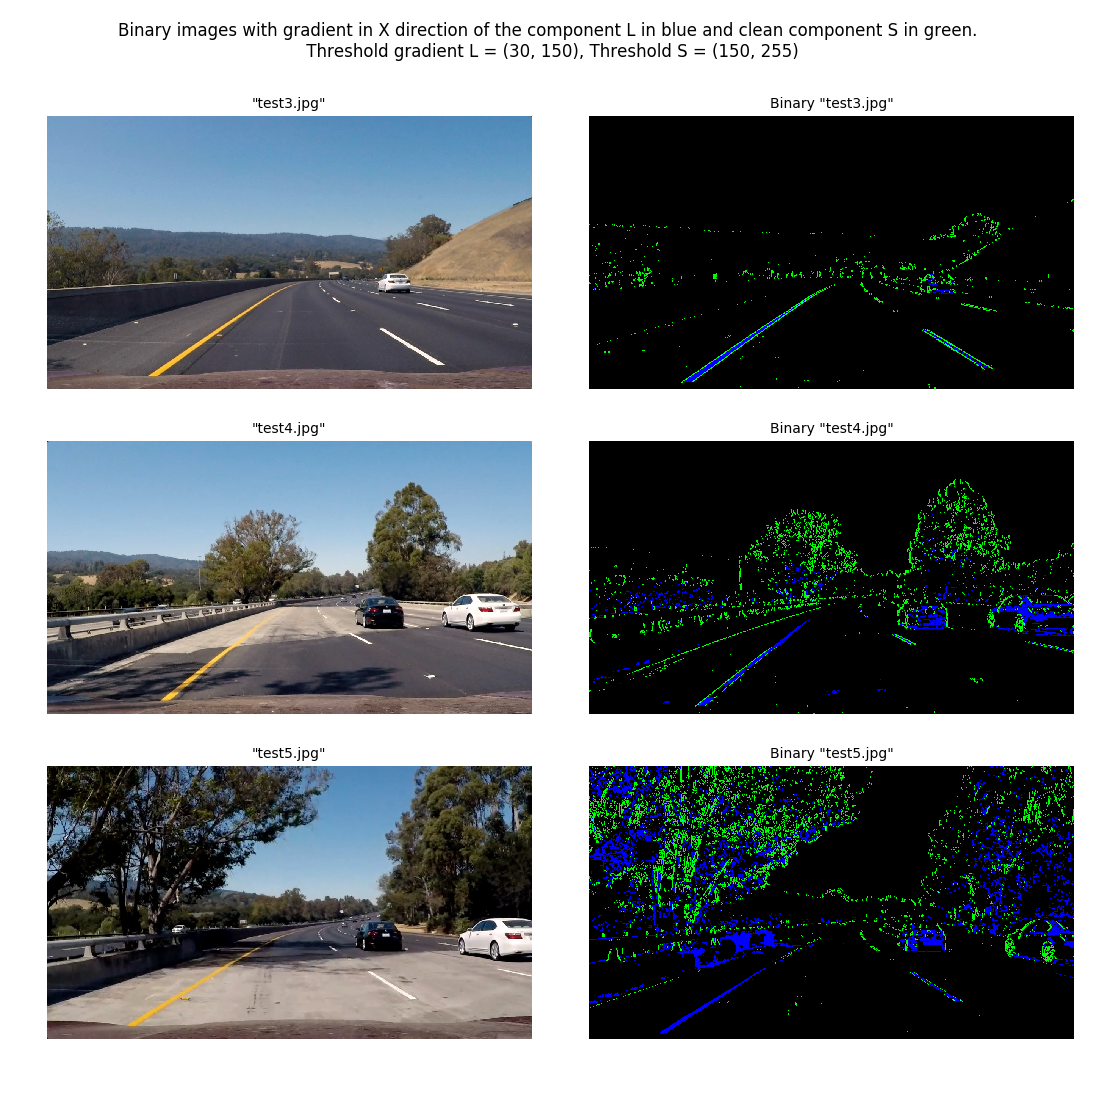
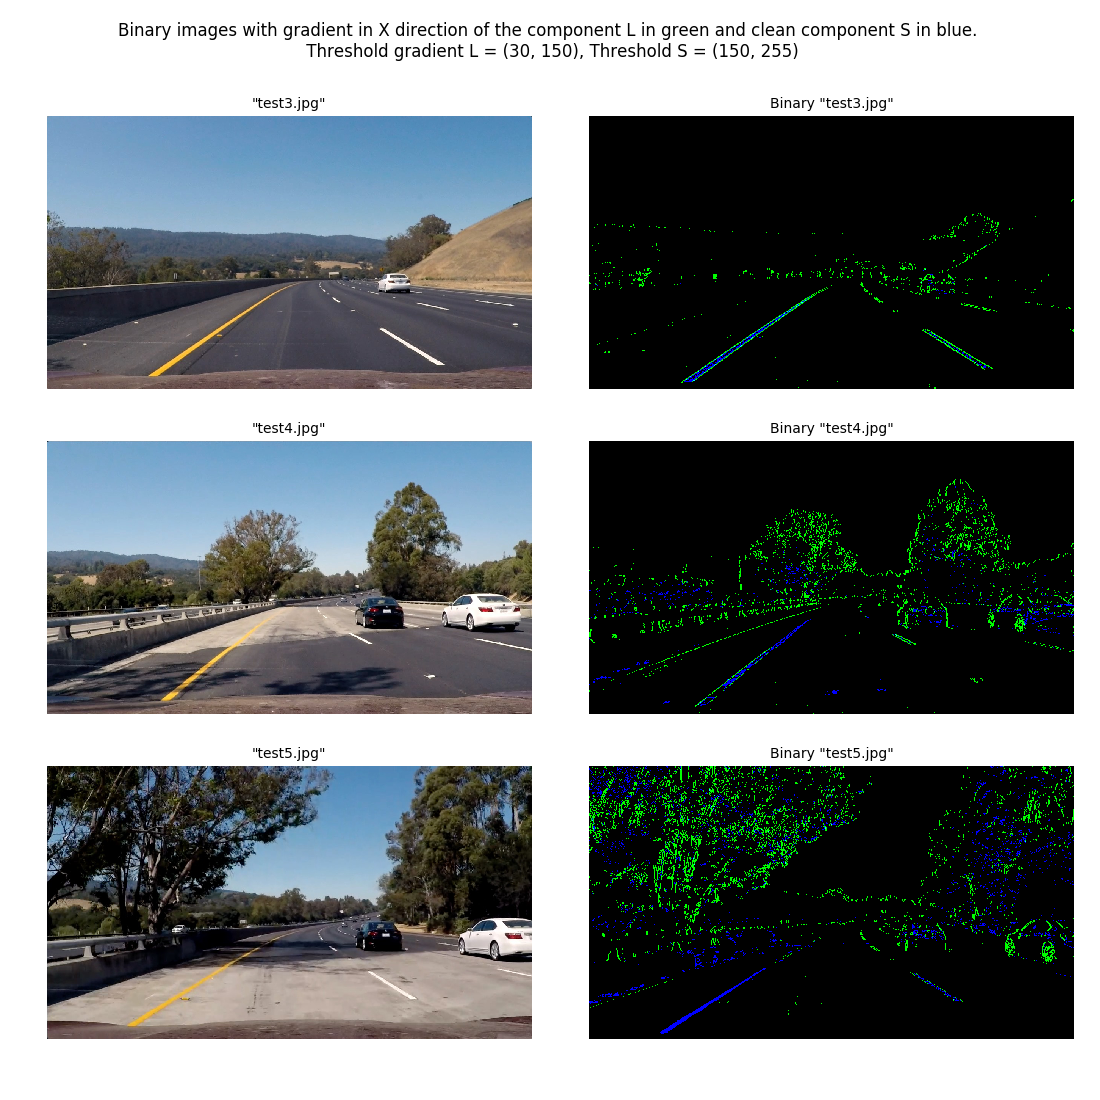
Class with functions to get lines created and two functions programed "findLaneLinesPixels" to get the lane line pixels that can be used to interpolate the lines and "getLines" to get the coeficients which defines second grade polynoms which describe the lane lines. Function tested with an already b

diff --git a/Main.py b/Main.py
@@ -313,22 +313,22 @@ imgTest5ud = cam.UndistortImage(imgTest5, matrix, dist)
 imgTest6ud = cam.UndistortImage(imgTest6, matrix, dist)
 
 # Then their binary images created with the gradient in direction X using the component L
-imgStraight_lines2_Lgrad = binImg.GradientCalc(imgStraight_lines2ud, imgType = 'HSL', imgChannel = 'l', calcType = 'dirX', thresh = (30, 150))
-imgTest1_Lgrad = binImg.GradientCalc(imgTest1ud, imgType = 'HSL', imgChannel = 'l', calcType = 'dirX', thresh = (30, 150))
-imgTest2_Lgrad = binImg.GradientCalc(imgTest2ud, imgType = 'HSL', imgChannel = 'l', calcType = 'dirX', thresh = (30, 150))
-imgTest3_Lgrad = binImg.GradientCalc(imgTest3ud, imgType = 'HSL', imgChannel = 'l', calcType = 'dirX', thresh = (30, 150))
-imgTest4_Lgrad = binImg.GradientCalc(imgTest4ud, imgType = 'HSL', imgChannel = 'l', calcType = 'dirX', thresh = (30, 150))
-imgTest5_Lgrad = binImg.GradientCalc(imgTest5ud, imgType = 'HSL', imgChannel = 'l', calcType = 'dirX', thresh = (30, 150))
-imgTest6_Lgrad = binImg.GradientCalc(imgTest6ud, imgType = 'HSL', imgChannel = 'l', calcType = 'dirX', thresh = (30, 150))
+imgStraight_lines2_Lgrad = binImg.GradientCalc(imgStraight_lines2ud, imgType = 'HSL', imgChannel = 'l', calcType = 'dirX', thresh = (35, 190))
+imgTest1_Lgrad = binImg.GradientCalc(imgTest1ud, imgType = 'HSL', imgChannel = 'l', calcType = 'dirX', thresh = (35, 160))
+imgTest2_Lgrad = binImg.GradientCalc(imgTest2ud, imgType = 'HSL', imgChannel = 'l', calcType = 'dirX', thresh = (35, 160))
+imgTest3_Lgrad = binImg.GradientCalc(imgTest3ud, imgType = 'HSL', imgChannel = 'l', calcType = 'dirX', thresh = (35, 160))
+imgTest4_Lgrad = binImg.GradientCalc(imgTest4ud, imgType = 'HSL', imgChannel = 'l', calcType = 'dirX', thresh = (35, 160))
+imgTest5_Lgrad = binImg.GradientCalc(imgTest5ud, imgType = 'HSL', imgChannel = 'l', calcType = 'dirX', thresh = (35, 160))
+imgTest6_Lgrad = binImg.GradientCalc(imgTest6ud, imgType = 'HSL', imgChannel = 'l', calcType = 'dirX', thresh = (35, 160))
 
 # And the binary images created with the S component
 imgStraight_lines2_S = binImg.HSLBinary(imgStraight_lines2ud, 's', (180, 255))
-imgTest1_S = binImg.HSLBinary(imgTest1ud, 's', (180, 255))
-imgTest2_S = binImg.HSLBinary(imgTest2ud, 's', (180, 255))
-imgTest3_S = binImg.HSLBinary(imgTest3ud, 's', (180, 255))
-imgTest4_S = binImg.HSLBinary(imgTest4ud, 's', (180, 255))
-imgTest5_S = binImg.HSLBinary(imgTest5ud, 's', (180, 255))
-imgTest6_S = binImg.HSLBinary(imgTest6ud, 's', (180, 255))
+imgTest1_S = binImg.HSLBinary(imgTest1ud, 's', (180, 250))
+imgTest2_S = binImg.HSLBinary(imgTest2ud, 's', (180, 250))
+imgTest3_S = binImg.HSLBinary(imgTest3ud, 's', (180, 250))
+imgTest4_S = binImg.HSLBinary(imgTest4ud, 's', (180, 250))
+imgTest5_S = binImg.HSLBinary(imgTest5ud, 's', (180, 250))
+imgTest6_S = binImg.HSLBinary(imgTest6ud, 's', (180, 250))
 
 
 # Finally, lets combine the images in bicolor images, in order to see which parts are selected by the gradient of the L component and which parts are
@@ -344,7 +344,7 @@ imgTest6_bin = binImg.CombineBinariesBlueGreen(imgTest6_Lgrad, imgTest6_S)
 # And plot them
 figure10, fig10_axes = plt.subplots(3,2, figsize = (11, 11))
 figure10.tight_layout()
-figure10.suptitle('Binary images with gradient in X direction of the component L in blue and clean component S in green. \n Threshold gradient L = (30, 150), Threshold S = (150, 255)')
+figure10.suptitle('Binary images with gradient in X direction of the component L in green and clean component S in blue. \n Threshold gradient L = (30, 150), Threshold S = (150, 255)')
 fig10_axes[0,0].imshow(imgStraight_lines2)
 fig10_axes[0,0].set_title('"straight_lines2.jpg"', fontsize = 10)
 fig10_axes[0,0].axis('off')
@@ -368,7 +368,7 @@ figure10.savefig('ImgsReport/10_AllTestImagesBin01')
 
 figure11, fig11_axes = plt.subplots(3,2, figsize = (11, 11))
 figure11.tight_layout()
-figure11.suptitle('Binary images with gradient in X direction of the component L in blue and clean component S in green. \n Threshold gradient L = (30, 150), Threshold S = (150, 255)')
+figure11.suptitle('Binary images with gradient in X direction of the component L in green and clean component S in blue. \n Threshold gradient L = (30, 150), Threshold S = (150, 255)')
 fig11_axes[0,0].imshow(imgTest3)
 fig11_axes[0,0].set_title('"test3.jpg"', fontsize = 10)
 fig11_axes[0,0].axis('off')
@@ -392,9 +392,13 @@ figure11.savefig('ImgsReport/11_AllTestImagesBin02')
 
 
 '''
-By applying both methods on all images, can be seen that the combination of both is a very good approach to get the lane lines. What does not get detected 
-by the gradient in direction X of the L component, gets detected with the S component and viceversa. This method will be used to get the lane line points and
-after that the equations corresponding to the lane lines.
+By applying both methods on all images, can be seen that the combination of both is a very good approach to get the lane lines. What 
+does not get detected by the gradient in direction X of the L component, gets detected with the S component and viceversa. 
+This method will be used to get the lane line points and after that the equations corresponding to the lane lines.
+
+A little optimization was here done with the parameters, the threshold range for the gradient in X was changed from (30, 150) to (35. 175)
+and the threshold range for the S component was changed from (180, 255) to (180, 250) in order to prevent very strong shadows to appear 
+in the binary image, like in "test5.jpg"
 '''
 
 # %%%%%%%%%%%%%%%%%%% PERSPECTIVE TRANSFORM %%%%%%%%%%%%%%%%%%%%%%%%%%%%%%
@@ -442,7 +446,7 @@ exec(open('HoughLines.py').read())
 imgStraightLines1bin =  binImg.CombineBinaries(strLines1BinHSLchLDirX, imgStrLin1UndistS_bin)
 
 # Now the vertices where we calculate the Hough lines
-y_horizon = 450
+y_horizon = 465
 y_bottom = imgStraightLines1bin.shape[0] - 50
 
 houghVertices = houghVertices(100, 550, 1200, 800, y_bottom, y_horizon)
@@ -528,3 +532,93 @@ figure14.savefig('ImgsReport/14_TestImagesWarped')
 By showing the three images and their warped version it can be seen how well this polygon does performing the transformation. In all the three
 images the lines stay paralel, which means that the conversion is valid and can be used for further analysis.
 '''
+
+# %%%%%%%%%%%%%%%%%%% BINARY IMAGE AND PERSPECTIVE TRANSFORM %%%%%%%%%%%%%%%%%%%%%%%%
+
+'''
+Now that the methods to get a binary image and to warp it into a bird view image are selected, programmed and tested with test images, it is 
+important to decide: What to do first? get the binary image and then the perspective transform or viceversa?. For that, binary transformed 
+images of some of the test images in both orders will be created to see which order is better.
+'''
+
+## First binary image, than perspective transform
+
+imgTest1_bin = binImg.CombineBinaries(imgTest1_Lgrad, imgTest1_S)
+imgTest2_bin = binImg.CombineBinaries(imgTest2_Lgrad, imgTest2_S)
+imgTest3_bin = binImg.CombineBinaries(imgTest3_Lgrad, imgTest3_S)
+
+imgTest1_binWarped = cam.WarpPolygonToSquare(imgTest1_bin, y_horizon, imgTest1ud.shape[0], 
+                                        x_bottomLeft, x_topLeft, x_bottomRight, x_topRight)
+
+imgTest2_binWarped = cam.WarpPolygonToSquare(imgTest2_bin, y_horizon, imgTest1ud.shape[0], 
+                                        x_bottomLeft, x_topLeft, x_bottomRight, x_topRight)
+
+imgTest3_binWarped = cam.WarpPolygonToSquare(imgTest3_bin, y_horizon, imgTest1ud.shape[0], 
+                                        x_bottomLeft, x_topLeft, x_bottomRight, x_topRight)
+
+
+## First perspective transform, than binary image
+
+imgTest1_warpedLgrad = binImg.GradientCalc(imgTest1_warped, imgType = 'HSL', imgChannel = 'l', calcType = 'dirX', thresh = (35, 160))
+imgTest2_warpedLgrad = binImg.GradientCalc(imgTest2_warped, imgType = 'HSL', imgChannel = 'l', calcType = 'dirX', thresh = (35, 160))
+imgTest3_warpedLgrad = binImg.GradientCalc(imgTest3_warped, imgType = 'HSL', imgChannel = 'l', calcType = 'dirX', thresh = (35, 160))
+
+imgTest1_warpedS = binImg.HSLBinary(imgTest1_warped, 's', (180, 250))
+imgTest2_warpedS = binImg.HSLBinary(imgTest2_warped, 's', (180, 250))
+imgTest3_warpedS = binImg.HSLBinary(imgTest3_warped, 's', (180, 250))
+
+imgTest1_warpedBin = binImg.CombineBinaries(imgTest1_warpedLgrad, imgTest1_warpedS)
+imgTest2_warpedBin = binImg.CombineBinaries(imgTest2_warpedLgrad, imgTest2_warpedS)
+imgTest3_warpedBin = binImg.CombineBinaries(imgTest3_warpedLgrad, imgTest3_warpedS)
+
+## Let's plot the first image
+figure15, fig15_axes = plt.subplots(2,2, figsize = (10, 5))
+figure15.tight_layout()
+figure15.suptitle('Get binary image and then warp vs warp and then get binary image for "test2.jpg"')
+fig15_axes[0,0].imshow(imgTest2ud)
+fig15_axes[0,0].set_title('Original image', fontsize = 10)
+fig15_axes[0,1].imshow(imgTest2_warped)
+fig15_axes[0,1].set_title('Warped image', fontsize = 10)
+fig15_axes[1,0].imshow(imgTest2_binWarped, cmap = 'gray')
+fig15_axes[1,0].set_title('Binary and then warped', fontsize = 10)
+fig15_axes[1,1].imshow(imgTest2_warpedBin, cmap = 'gray')
+fig15_axes[1,1].set_title('Warped and then binary', fontsize = 10)
+plt.subplots_adjust(top = 0.9, bottom = 0.05)
+figure15.savefig('ImgsReport/15_ComparisonOrderTest2')
+
+'''
+For this image can be seen that both results are very similar, but in the warped image before getting the binary image with the lines
+the right dashed line is not so well defined, also a little detail in the road is stronger detected in that version. Another thing is the 
+car. While by creating first the binary image and then warping it the car does not get detected, but by warping the image and then creating
+a binary image from it, the car gets detected, what can cause wrong measurements of the lines.
+
+Let's plot the comparison with another image to be sure what option is the best
+'''
+
+# %% 
+
+## Let's plot the first image
+figure16, fig16_axes = plt.subplots(2,2, figsize = (10, 5))
+figure16.tight_layout()
+figure16.suptitle('Get binary image and then warp vs warp and then get binary image for "test1.jpg"')
+fig16_axes[0,0].imshow(imgTest1ud)
+fig16_axes[0,0].set_title('Original image', fontsize = 10)
+fig16_axes[0,1].imshow(imgTest1_warped)
+fig16_axes[0,1].set_title('Warped image', fontsize = 10)
+fig16_axes[1,0].imshow(imgTest1_binWarped, cmap = 'gray')
+fig16_axes[1,0].set_title('Binary and then warped', fontsize = 10)
+fig16_axes[1,1].imshow(imgTest1_warpedBin, cmap = 'gray')
+fig16_axes[1,1].set_title('Warped and then binary', fontsize = 10)
+plt.subplots_adjust(top = 0.9, bottom = 0.05)
+figure16.savefig('ImgsReport/16_ComparisonOrderTest1')
+
+
+'''
+In the case of this image, it can be seen that the left line gets detected longer in the version where first the binary image is created 
+and then the binary image is warped than in the contrary version. Also in the contrary version some other details of the street are being
+detected, which are not part of the line. So the better approach may be to get first the binary image and then warp it.
+'''
+
+# %%%%%%%%%%%%%%%%%%%%%%%%%% IDENTIFICATION OF LANE LINE PIXELS ON WARPED BINARY IMAGE %%%%%%%%%%%%%%%%%
+
+

diff --git a/ProcessLines.py b/ProcessLines.py
@@ -1,0 +1,151 @@
+#!/usr/bin/env python3
+# -*- coding: utf-8 -*-
+"""
+Created on Mon Apr  8 19:22:06 2019
+
+@author: earendilavari
+"""
+
+import numpy as np
+import cv2
+import matplotlib.pyplot as plt
+import matplotlib.image as mpimg
+
+class LinesProcessing:
+    def findLaneLinesPixels (self, image, heighWindows = 80, distCenter = 75, minPix = 50, drawWindows = True, paintLinePixels = True):
+        # This function is similar to "find_lane_pixels" of the lesson "Advanced computer vision"
+        # it gets the X and Y values of the pixels corresponding to the right and left lane lines.
+        # It uses the slicing window method to diferentiate which pixels correspond to the left 
+        # and right lane line.
+        
+        # Creates a 3-channel image to visualize the results and to be used further
+        imgPixels = np.dstack((image, image, image))
+        
+        # Gets the histogram of the bottom half of the image 
+        hist = np.sum(image[image.shape[0]//2:,:], axis=0)
+        
+        # Finds the column with the most activated pixels for the right and left lines to be
+        # used as start points
+        imgMidPoint = np.int(hist.shape[0]//2)
+        leftStartMidPoint = np.argmax(hist[:imgMidPoint])
+        rightStartMidPoint = np.argmax(hist[imgMidPoint:]) + imgMidPoint
+        
+        # Determines the quantity of windows based of its heigh
+        nWindows = np.int(image.shape[0]//heighWindows)
+        
+        # Identifies the non zero pixels on the image. This values correspond
+        # to the indexes where the nonzero pixels are located, so a non zero point
+        # can be found like (nonZeroX[i], nonZeroY[i])
+        nonZero = image.nonzero()
+        nonZeroX = np.array(nonZero[1])
+        nonZeroY = np.array(nonZero[0])
+        
+        # Center position of the window which is currently being processed, for the first
+        # image they correspond to the start points defined before through the histogram
+        leftCurrMidPoint = leftStartMidPoint
+        rightCurrMidPoint = rightStartMidPoint
+        
+        # These two lists will contain the indices on nonZeroX and nonZeroY that correspond
+        # to pixels in the left line and in the right line
+        leftLineInds = []
+        rightLineInds = []
+        
+        # Iterates through every level of windows
+        
+        for i in range(nWindows):
+            # Define the values that limit the windows
+            winY_low = image.shape[0] - (i+1)*heighWindows
+            winY_high = image.shape[0] - i*heighWindows
+            winX_left_low = leftCurrMidPoint - distCenter 
+            winX_left_high = leftCurrMidPoint + distCenter 
+            winX_right_low = rightCurrMidPoint - distCenter  
+            winX_right_high = rightCurrMidPoint + distCenter
+        
+            # Draws the windows on the output image
+            if drawWindows == 'True':
+                cv2.rectangle(imgPixels,(winX_left_low,winY_low),(winX_left_high,winY_high),(0,255,0), 2) 
+                cv2.rectangle(imgPixels,(winX_right_low,winY_low),(winX_right_high,winY_high),(0,255,0), 2) 
+        
+            currPixInLeftWindow = 0     #This number needs to be higher than minPix to update the X position of the window
+            currPixInRightWindow = 0    #This number needs to be higher than minPix to update the X position of the window
+            
+            for j in range (0,nonZeroX.shape[0] - 1):
+                if ((nonZeroX[j] > winX_left_low) & (nonZeroX[j] < winX_left_high) & 
+                (nonZeroY[j] >= winY_low) & (nonZeroY[j] < winY_high)):
+                    leftLineInds.append(j)
+                    currPixInLeftWindow += 1
+                if ((nonZeroX[j] > winX_right_low) & (nonZeroX[j] < winX_right_high) & 
+                (nonZeroY[j] >= winY_low) & (nonZeroY[j] < winY_high)):
+                    rightLineInds.append(j)
+                    currPixInRightWindow += 1       
+                
+            # The centers of the windows are updated if there is enough points inside of them
+            if (currPixInLeftWindow > minPix):
+                histLeftWindow = np.sum(image[winY_low:winY_high,winX_left_low:winX_left_high], axis = 0)
+                leftCurrMidPoint = leftCurrMidPoint - distCenter + np.argmax(histLeftWindow)
+        
+            if (currPixInRightWindow > minPix):
+                histRightWindow = np.sum(image[winY_low:winY_high,winX_right_low:winX_right_high], axis = 0)
+                rightCurrMidPoint = rightCurrMidPoint - distCenter + np.argmax(histRightWindow)
+    
+        # Extract left and right line pixel positions
+        leftX = nonZeroX[leftLineInds]
+        leftY = nonZeroY[leftLineInds] 
+        rightX = nonZeroX[rightLineInds]
+        rightY = nonZeroY[rightLineInds]
+        
+        # Paints the pixels on the left line blue and in the right line red
+        if paintLinePixels == 'True':
+            imgPixels[leftY, leftX] = [255,0,0]
+            imgPixels[rightY, rightX] = [0, 0, 255]
+        
+        
+        return leftX, leftY, rightX, rightY, imgPixels
+    
+    def getLines(self, image, leftX, leftY, rightX, rightY, drawLines = 'True'):
+        # Gets the coeficients of a second grade polynom defining the right and the left lines.
+        # If desired, it draws the lines into the image
+        
+        leftLineCoeficients = np.polyfit(leftY, leftX, 2)
+        rightLineCoeficients = np.polyfit(rightY, rightX, 2)
+        
+        # Creates a copy of the input image where the lines will be drawn
+        imageLines = image.copy()
+        
+        linesY = np.linspace(0, image.shape[0]-1, image.shape[0])
+        
+        try:
+            leftLineX = leftLineCoeficients[0]*linesY**2 + leftLineCoeficients[1]*linesY + leftLineCoeficients[2]
+            rightLineX = rightLineCoeficients[0]*linesY**2 + rightLineCoeficients[1]*linesY + rightLineCoeficients[2]
+        except TypeError:
+            # Avoids an error if `left` and `right_fit` are still none or incorrect
+            print('The function failed to fit a line!')
+            leftLineX = 1*linesY**2 + 1*linesY
+            rightLineX = 1*linesY**2 + 1*linesY
+
+        if drawLines == 'True':
+            imageLines[np.int_(linesY), np.int_(leftLineX), 0] = 255
+            imageLines[np.int_(linesY), np.int_(leftLineX), 1] = 255
+            imageLines[np.int_(linesY), np.int_(leftLineX) + 1, 0] = 255
+            imageLines[np.int_(linesY), np.int_(leftLineX) + 1, 1] = 255
+            imageLines[np.int_(linesY), np.int_(leftLineX) - 1, 0] = 255
+            imageLines[np.int_(linesY), np.int_(leftLineX) - 1, 1] = 255
+            imageLines[np.int_(linesY), np.int_(rightLineX), 0] = 255
+            imageLines[np.int_(linesY), np.int_(rightLineX), 1] = 255
+            imageLines[np.int_(linesY), np.int_(rightLineX) + 1, 0] = 255
+            imageLines[np.int_(linesY), np.int_(rightLineX) + 1, 1] = 255
+            imageLines[np.int_(linesY), np.int_(rightLineX) - 1, 0] = 255
+            imageLines[np.int_(linesY), np.int_(rightLineX) - 1, 1] = 255
+            
+        return leftLineCoeficients, rightLineCoeficients, imageLines
+    
+
+# Load our image
+binary_warped = mpimg.imread('warped_example.jpg')
+
+linesProc = LinesProcessing()
+
+leftX, leftY, rightX, rightY, test1 = linesProc.findLaneLinesPixels(binary_warped, drawWindows = 'True', paintLinePixels = 'True' )
+leftLineCoeff, rightLineCoeff, test2 = linesProc.getLines(test1, leftX, leftY, rightX, rightY, drawLines = 'True')
+
+plt.imshow(test2)

diff --git a/BinaryImg.py b/BinaryImg.py
@@ -99,10 +99,4 @@ class BinaryImg:
         combinedBinary = np.dstack((np.zeros_like(img1), img1, img2))*255
         return combinedBinary
     
-
-        
-
-
-        
-        
             
